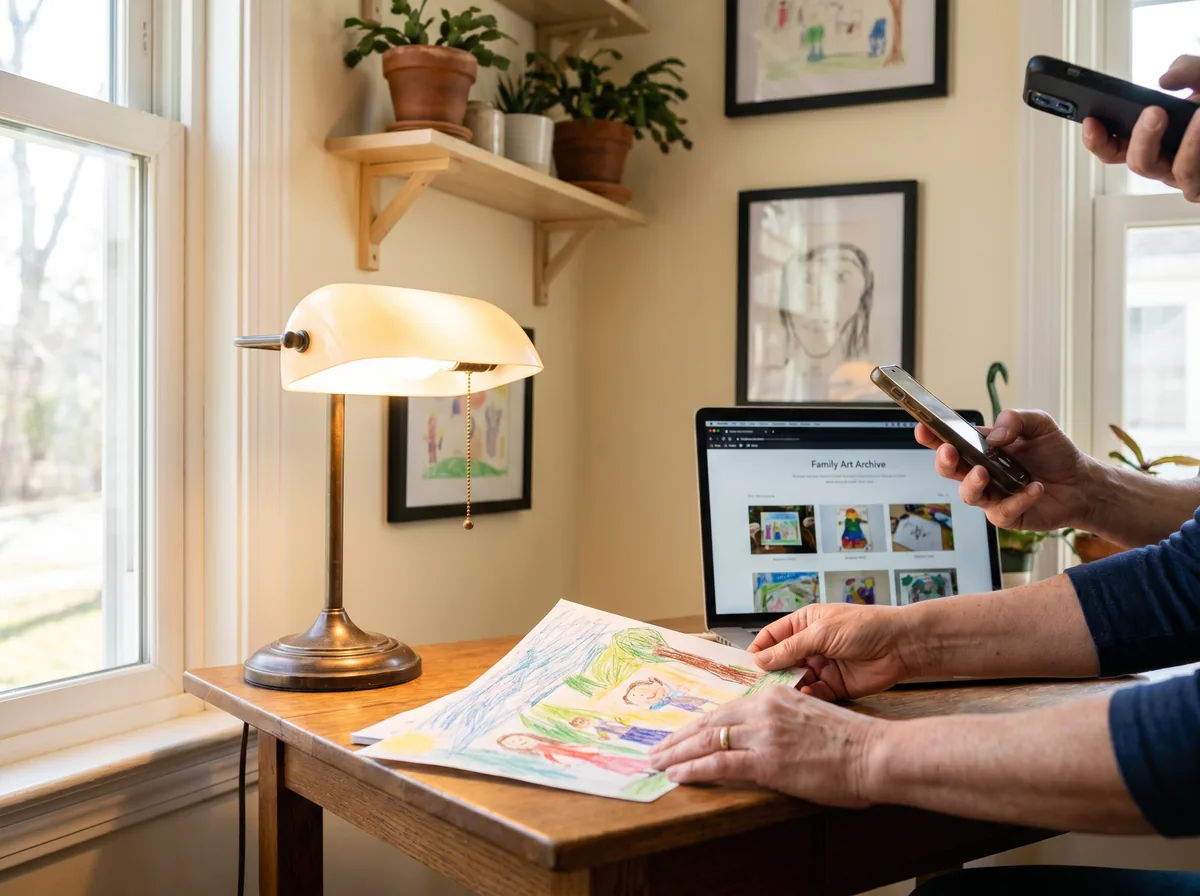
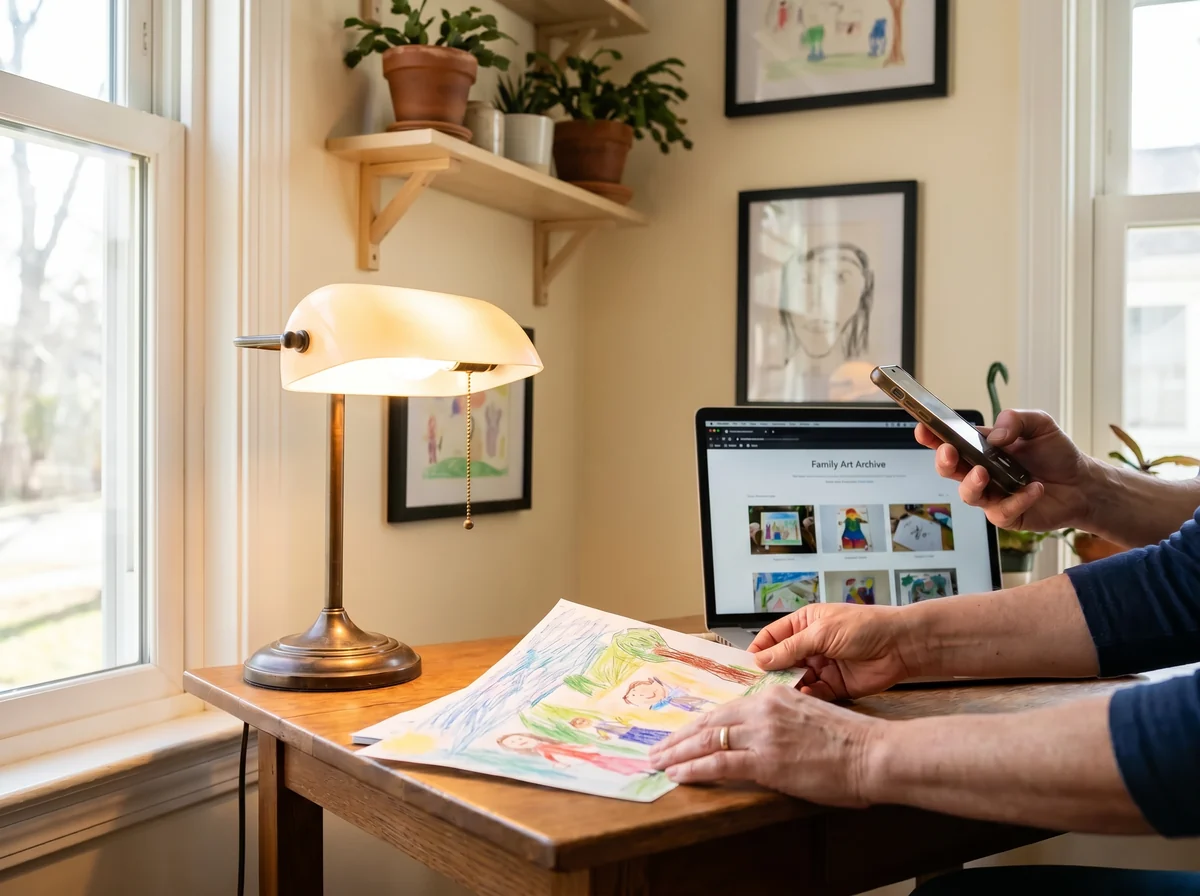
Content + image refinements
- Move examples caption above the example galleries
- Signature best-for: drop the '5x more pieces than Starter' qualifier
- Pricing notes now fill full column width on mobile (<=720px)
- 'keepsake folder' -> 'keepsake box' in What You Own
- Rewrite Our Story in first person as Scott; mention junior cofounders Willa and Gray learning entrepreneurship, technology, archiving
- Regenerate founder photo to remove the extra floating hand/phone in the upper-right corner

Changed region(s): [[0.8325, 0.0625, 1.0, 0.25], [0.4933, 0.6875, 0.6167, 0.7812], [0.6167, 0.75, 0.6475, 0.7812]]

diff --git a/index.html b/index.html
@@ -171,6 +171,7 @@
           <span class="eyebrow">Examples</span>
           <h2>See what a Kiddofolio gallery looks like.</h2>
         </div>
+        <p class="example-caption reveal">Every Kiddofolio gallery is custom-built. These example galleries show the quality and care that goes into every project &mdash; browse them below.</p>
         <div class="example-grid">
           <article class="example-card reveal">
             <div class="example-card__media">
@@ -200,7 +201,6 @@
             </div>
           </article>
         </div>
-        <p class="example-caption reveal">Every Kiddofolio gallery is custom-built. These example galleries show the quality and care that goes into every project &mdash; browse them below.</p>
       </div>
     </section>
 
@@ -240,7 +240,7 @@
           <article class="tier tier--featured reveal" style="--tier-check: var(--rb-5)">
             <span class="tier__flag">Recommended for most families</span>
             <h3 class="tier__name">Signature Gallery</h3>
-            <p class="tier__best">Best when you want more of your child&rsquo;s work in the gallery &mdash; up to 5&times; more pieces than Starter.</p>
+            <p class="tier__best">Best when you want more of your child&rsquo;s work in the gallery.</p>
             <div class="tier__price"><span class="amt">$3,000</span></div>
             <p class="tier__deposit"><strong>$1,500 deposit</strong> reserves your project.</p>
             <div class="tier__divider" aria-hidden="true"></div>
@@ -327,7 +327,7 @@
           </div>
           <div class="own-item reveal" style="--own-color: var(--rb-3)">
             <span class="own-item__mark" aria-hidden="true"><svg viewBox="0 0 24 24" fill="none" stroke="currentColor" stroke-width="1.8" stroke-linecap="round" stroke-linejoin="round"><path d="M4 7h6l2 2h8v10a2 2 0 0 1-2 2H4a2 2 0 0 1-2-2V5a2 2 0 0 1 2-2z"/></svg></span>
-            <div><h3>Originals come home.</h3><p>Every piece is returned in an organized, archival-quality keepsake folder.</p></div>
+            <div><h3>Originals come home.</h3><p>Every piece is returned in an organized, archival-quality keepsake box.</p></div>
           </div>
           <div class="own-item reveal" style="--own-color: var(--rb-9)">
             <span class="own-item__mark" aria-hidden="true"><svg viewBox="0 0 24 24" fill="none" stroke="currentColor" stroke-width="1.8" stroke-linecap="round" stroke-linejoin="round"><path d="M12 20V10M12 10l-3.5 2M12 10l3.5 2"/><path d="M12 4v3"/><circle cx="12" cy="12" r="9"/></svg></span>
@@ -346,9 +346,10 @@
         <div class="founder__copy reveal">
           <span class="eyebrow">Our story</span>
           <h2>How Kiddofolio started.</h2>
-          <p>Kiddofolio began as a way to preserve our own children&rsquo;s artwork. The first galleries we built &mdash; for our daughter and our son &mdash; became willamonet.com and grayjfolio.com. We wanted their work to be seen and remembered, not buried in closets.</p>
-          <p>Now we offer the same care to other families: a done-for-you process that treats children&rsquo;s artwork with taste, respect, and real craftsmanship.</p>
-          <p class="sig">&mdash; The Kiddofolio family</p>
+          <p>I&rsquo;m Scott, and I started Kiddofolio as a way to preserve my own children&rsquo;s artwork. The first galleries I built &mdash; for my daughter and my son &mdash; became willamonet.com and grayjfolio.com. I wanted their work to be seen and remembered, not buried in closets.</p>
+          <p>I&rsquo;m also using Kiddofolio to teach my junior cofounders, Willa and Gray, about entrepreneurship, technology, and archiving &mdash; how to build something real, and how to look after the things worth keeping.</p>
+          <p>Now I offer that same care to other families: a done-for-you process that treats children&rsquo;s artwork with taste, respect, and real craftsmanship.</p>
+          <p class="sig">&mdash; Scott</p>
         </div>
       </div>
     </section>

diff --git a/assets/css/style.css b/assets/css/style.css
@@ -438,6 +438,7 @@ a, button, [role="button"], input, textarea, select {
 .tier .btn { margin-top: auto; }
 
 .pricing-notes { margin-top: clamp(var(--space-8), 5vw, var(--space-12)); display: grid; gap: var(--space-3); max-width: 66ch; }
+@media (max-width: 720px) { .pricing-notes { max-width: none; } }
 .pricing-notes p { font-size: var(--text-sm); color: var(--color-text-muted); }
 .pricing-notes a { color: var(--color-cta); font-weight: 600; }
 
